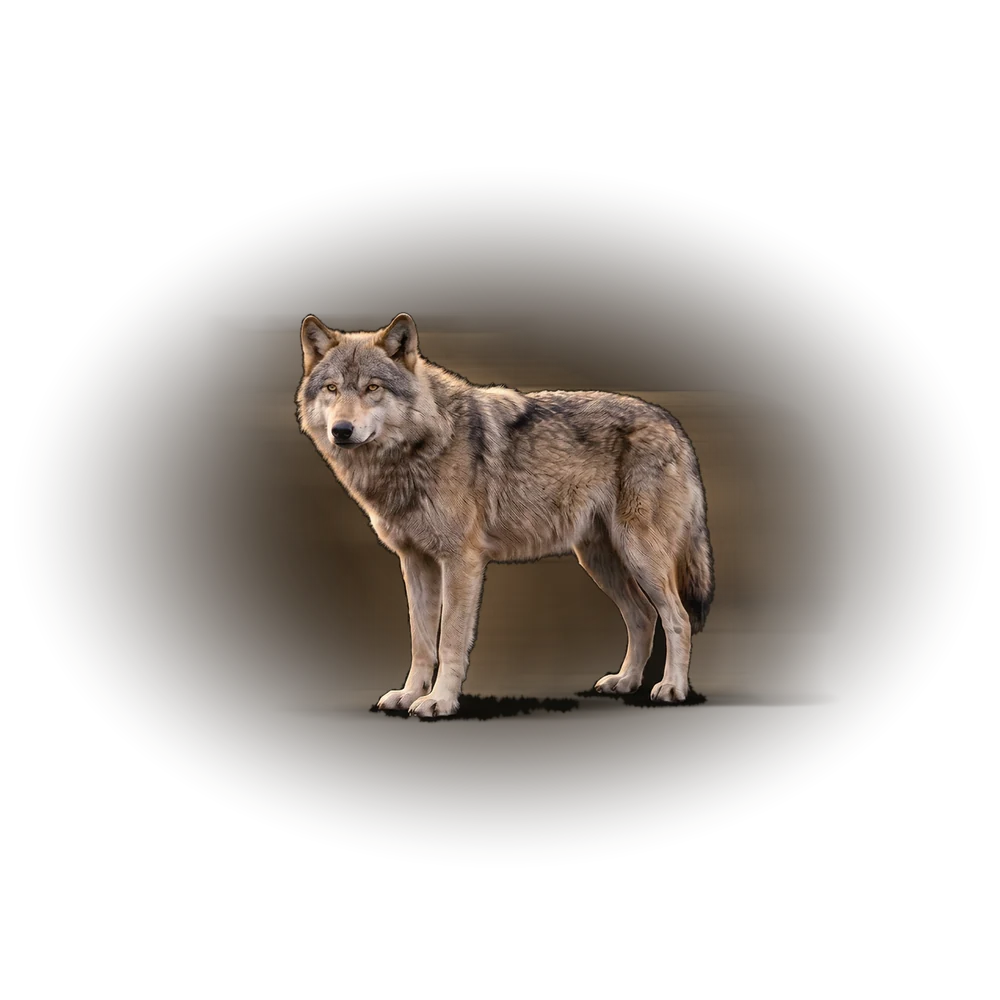
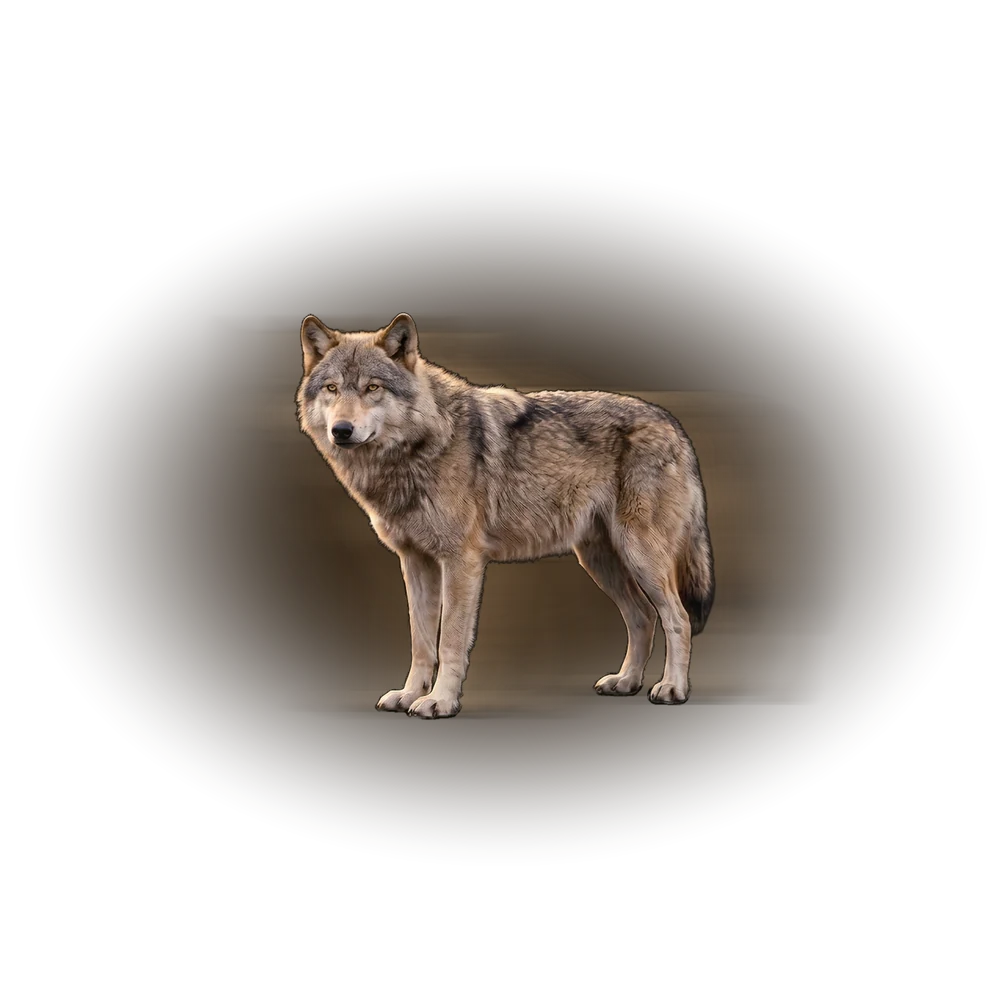
v5.4 matted stills

Changed region(s): [[0.372, 0.62, 0.775, 0.744]]

diff --git a/preview.html b/preview.html
@@ -27,7 +27,7 @@
 <div class="pv">
   <h1>Wolf, 1 to 10</h1>
   <div class="stagebox">
-    <div class="hero"><div class="stage-art" id="wolfArt"><video class="a" id="wolfImg" muted autoplay loop playsinline disablepictureinpicture poster="img/wolf/01.webp?v=43" ></video><span class="flick"></span><span class="flick b"></span></div></div>
+    <div class="hero"><div class="stage-art" id="wolfArt"><video class="a" id="wolfImg" muted autoplay loop playsinline disablepictureinpicture poster="img/wolf/01.webp?v=44" ></video><span class="flick"></span><span class="flick b"></span></div></div>
     <div class="ctl"><button id="wPrev">‹</button><input type="range" id="wRange" min="1" max="10" value="1"><span class="n" id="wN">1</span><button id="wNext">›</button></div>
     <button class="btn play" id="wPlay">Play</button>
   </div>
@@ -79,10 +79,10 @@ for (const k in O){
   s.insertAdjacentHTML('beforeend',`<div class="ico"><span class="ic"><svg viewBox="0 0 20 20" fill="currentColor">${S[k]}</svg></span><span>${names[k]}</span></div>`);
 }
 function wire(kind,img,range,n,prev,next,play){
-  const set=v=>{v=Math.min(10,Math.max(1,v));range.value=v;n.textContent=v;if(img.tagName==='VIDEO'){img.poster=`img/${kind}/${String(v).padStart(2,'0')}.webp`;img.src=`img/${kind}/${String(v).padStart(2,'0')}.${EXT}?v=5`;img.play().catch(()=>{});}else{img.src=`img/${kind}/${String(v).padStart(2,'0')}.webp?v=43`;}};
+  const set=v=>{v=Math.min(10,Math.max(1,v));range.value=v;n.textContent=v;if(img.tagName==='VIDEO'){img.poster=`img/${kind}/${String(v).padStart(2,'0')}.webp`;img.src=`img/${kind}/${String(v).padStart(2,'0')}.${EXT}?v=5`;img.play().catch(()=>{});}else{img.src=`img/${kind}/${String(v).padStart(2,'0')}.webp?v=44`;}};
   range.oninput=()=>set(+range.value); prev.onclick=()=>set(+range.value-1); next.onclick=()=>set(+range.value+1);
   let t=null; play.onclick=()=>{ if(t){clearInterval(t);t=null;play.textContent='Play';return;} let v=1,dir=1; set(1); play.textContent='Stop'; t=setInterval(()=>{v+=dir; if(v>=10||v<=1) dir=-dir; set(v);},kind==='wolf'?2500:450); };
-  for (let i=1;i<=10;i++){ new Image().src=`img/${kind}/${String(i).padStart(2,'0')}.webp?v=43`; }
+  for (let i=1;i<=10;i++){ new Image().src=`img/${kind}/${String(i).padStart(2,'0')}.webp?v=44`; }
 }
 const EXT=/Apple/.test(navigator.vendor)?'mp4':'webm';
 wire('wolf',document.getElementById('wolfImg'),wRange,wN,wPrev,wNext,wPlay); (function(){const v=document.getElementById('wolfImg');v.src=`img/wolf/01.${EXT}?v=5`;const kick=()=>{v.muted=true;v.play().catch(()=>{});};kick();document.addEventListener('visibilitychange',kick);document.addEventListener('pointerdown',kick);})(); wire('brain',brainImg,bRange,bN,bPrev,bNext,bPlay);

diff --git a/app.js b/app.js
@@ -3,7 +3,7 @@
   "use strict";
   const P = window.PLAN;
   const $ = (s) => document.querySelector(s);
-  const VERSION = "5.3";
+  const VERSION = "5.4";
   try { const qs = new URLSearchParams(location.search); if (/^\d{4}-\d{2}-\d{2}$/.test(qs.get("start") || "")) P.start = qs.get("start"); } catch {}
 
   /* ---------- dates ---------- */

diff --git a/tools/process_video2.py b/tools/process_video2.py
@@ -22,24 +22,17 @@ def plate_colour(img):
     edge = np.concatenate([a[:40].reshape(-1, 3), a[-40:].reshape(-1, 3), a[:, :40].reshape(-1, 3), a[:, -40:].reshape(-1, 3)])
     return np.median(edge, axis=0)
 
-def key(img, bg=None):
-    """Plate is flat (noise under 5 levels), so key tight, then fill holes so dark fur inside the silhouette stays."""
+def key(img, bg, mt=None):
+    """Alpha = BiRefNet matte (solid silhouette, stable frame to frame) plus the tight chroma key for loose fur
+    strands, but only within a few pixels of the matte so the plate never leaks."""
     from scipy import ndimage
     a = np.asarray(img.convert("RGB").filter(ImageFilter.GaussianBlur(0.6)), np.float32)
-    if bg is None:
-        edge = np.concatenate([a[:50].reshape(-1, 3), a[-50:].reshape(-1, 3), a[:, :50].reshape(-1, 3), a[:, -50:].reshape(-1, 3)])
-        bg = np.median(edge, axis=0)
     d = np.sqrt(((a - bg) ** 2).sum(-1))
-    alpha = np.clip((d - 7) / 10, 0, 1)
-    hard = alpha > 0.5
-    hard = ndimage.binary_closing(hard, iterations=4)
-    hard = ndimage.binary_fill_holes(hard)
-    lab, k = ndimage.label(hard)
-    if k > 1:   # keep the big blobs only (the wolf), drop plate specks
-        sizes = ndimage.sum(hard, lab, range(1, k + 1)); keep = np.isin(lab, [i + 1 for i, s in enumerate(sizes) if s > 0.002 * hard.size])
-        hard = keep
-    alpha = np.maximum(alpha, hard.astype(np.float32)) * ndimage.binary_dilation(hard, iterations=3)
-    alpha = np.asarray(Image.fromarray((alpha * 255).astype(np.uint8)).filter(ImageFilter.GaussianBlur(0.8)), np.float32) / 255
+    chroma = np.clip((d - 7) / 10, 0, 1)
+    m = np.asarray(mt.convert("L"), np.float32) / 255 if mt is not None else chroma
+    near = ndimage.binary_dilation(m > 0.5, iterations=4)
+    alpha = np.maximum(m, chroma * near)
+    alpha = np.asarray(Image.fromarray((alpha * 255).astype(np.uint8)).filter(ImageFilter.GaussianBlur(0.6)), np.float32) / 255
     return np.asarray(img.convert("RGB"), np.float32) / 255, alpha[..., None]
 
 def pool(cy):
@@ -59,17 +52,20 @@ def premultiply(path):
 def run(n, src):
     z = ZOOM[n]; side = int(1220 * z * S / 1520)
     ox = (S - side) // 2; oy = max(0, min(S - side, (S - side) // 2 + int((1 - z) * 60 * S / 1520)))
-    tmp = os.path.expanduser(f"~/Documents/wolf/img/raw/wolfvid2/{n:02d}"); shutil.rmtree(tmp, ignore_errors=True); os.makedirs(tmp)
-    subprocess.run(["ffmpeg", "-y", "-loglevel", "error", "-i", src, "-vf", f"fps={FPS},scale={side}:{side}:flags=lanczos", f"{tmp}/in_%04d.png"], check=True)
+    tmp = os.path.expanduser(f"~/Documents/wolf/img/raw/wolfvid2/{n:02d}"); os.makedirs(tmp, exist_ok=True)
+    if not any(f.startswith("in_") for f in os.listdir(tmp)):   # keep extracted frames (and their mattes) between runs
+        subprocess.run(["ffmpeg", "-y", "-loglevel", "error", "-i", src, "-vf", f"fps={FPS},scale={side}:{side}:flags=lanczos", f"{tmp}/in_%04d.png"], check=True)
     frames = sorted(f for f in os.listdir(tmp) if f.startswith("in_"))
     first = Image.open(f"{tmp}/{frames[0]}"); bg = plate_colour(first)
-    _, a0 = key(first, bg); rows = np.where(a0[..., 0].max(1) > 0.5)[0]
+    def mt_for(f):
+        p = f"{tmp}/mt_{f[3:]}"; return Image.open(p) if os.path.exists(p) else None
+    _, a0 = key(first, bg, mt_for(frames[0])); rows = np.where(a0[..., 0].max(1) > 0.5)[0]
     cy = oy + (rows.min() + rows.max()) / 2 if len(rows) else S / 2
     pcol, pacc = pool(cy)
     grey_w = np.array([0.3, 0.59, 0.11], np.float32); warm = np.array([1.0, 0.86, 0.66], np.float32)
     ks = ((int(side * 0.16) | 1, min(int(side * 0.09), ox), 0.42), (int(side * 0.07) | 1, min(int(side * 0.04), ox), 0.30))
     for i, f in enumerate(frames):
-        rgb, alpha = key(Image.open(f"{tmp}/{f}"), bg)
+        rgb, alpha = key(Image.open(f"{tmp}/{f}"), bg, mt_for(f))
         col = pcol.copy(); acc = pacc.copy()
         def over(lrgb, la, dx, gain):
             ys, xs = slice(oy, oy + side), slice(ox + dx, ox + dx + side)

diff --git a/tools/process_art11.py b/tools/process_art11.py
@@ -15,24 +15,17 @@ def hblur(a, k):
     c = np.cumsum(p, axis=1); c = np.concatenate([np.zeros_like(c[:, :1]), c], axis=1)
     return (c[:, k:] - c[:, :-k]) / k
 
-def key(img, bg=None):
-    """Plate is flat (noise under 5 levels), so key tight, then fill holes so dark fur inside the silhouette stays."""
+def key(img, mt=None):
     from scipy import ndimage
     a = np.asarray(img.convert("RGB").filter(ImageFilter.GaussianBlur(0.6)), np.float32)
-    if bg is None:
-        edge = np.concatenate([a[:50].reshape(-1, 3), a[-50:].reshape(-1, 3), a[:, :50].reshape(-1, 3), a[:, -50:].reshape(-1, 3)])
-        bg = np.median(edge, axis=0)
+    edge = np.concatenate([a[:50].reshape(-1, 3), a[-50:].reshape(-1, 3), a[:, :50].reshape(-1, 3), a[:, -50:].reshape(-1, 3)])
+    bg = np.median(edge, axis=0)
     d = np.sqrt(((a - bg) ** 2).sum(-1))
-    alpha = np.clip((d - 7) / 10, 0, 1)
-    hard = alpha > 0.5
-    hard = ndimage.binary_closing(hard, iterations=4)
-    hard = ndimage.binary_fill_holes(hard)
-    lab, k = ndimage.label(hard)
-    if k > 1:   # keep the big blobs only (the wolf), drop plate specks
-        sizes = ndimage.sum(hard, lab, range(1, k + 1)); keep = np.isin(lab, [i + 1 for i, s in enumerate(sizes) if s > 0.002 * hard.size])
-        hard = keep
-    alpha = np.maximum(alpha, hard.astype(np.float32)) * ndimage.binary_dilation(hard, iterations=3)
-    alpha = np.asarray(Image.fromarray((alpha * 255).astype(np.uint8)).filter(ImageFilter.GaussianBlur(0.8)), np.float32) / 255
+    chroma = np.clip((d - 7) / 10, 0, 1)
+    m = np.asarray(mt.convert("L").resize(img.size, Image.LANCZOS), np.float32) / 255 if mt is not None else chroma
+    near = ndimage.binary_dilation(m > 0.5, iterations=4)
+    alpha = np.maximum(m, chroma * near)
+    alpha = np.asarray(Image.fromarray((alpha * 255).astype(np.uint8)).filter(ImageFilter.GaussianBlur(0.6)), np.float32) / 255
     return np.asarray(img.convert("RGB"), np.float32) / 255, alpha[..., None]
 
 def pool(cy):
@@ -48,7 +41,8 @@ def stage(n, src, dst):
     img = Image.open(src).convert("RGB")
     z = ZOOM[n]; side = int(1220 * z)
     img = img.resize((side, side), Image.LANCZOS)
-    rgb, alpha = key(img)
+    mp = src[:-4] + ".matte.png"
+    rgb, alpha = key(img, Image.open(mp) if os.path.exists(mp) else None)
     ox = (S - side) // 2; oy = max(0, min(S - side, (S - side) // 2 + int((1 - z) * 60)))
     ys_w = np.where(alpha[..., 0].max(1) > 0.5)[0]; cy = oy + (ys_w.min() + ys_w.max()) / 2 if len(ys_w) else S / 2
     col, acc = pool(cy); col = col.copy(); acc = acc.copy()

diff --git a/tools/matte.py b/tools/matte.py
@@ -1,0 +1,35 @@
+#!/usr/bin/env python3
+"""BiRefNet mattes for the wolf frames (run with the AIOS venv python, which has rembg).
+Stills:  matte.py stills            -> img/raw/wolf9/NN.matte.png
+Clip:    matte.py clip N [step]     -> img/raw/wolfvid2/NN/mt_XXXX.png for every in_XXXX.png
+Every `step`-th frame goes through the model; the frames between get a linear blend of the neighbours
+(motion is subtle, so the edge moves under a pixel or two between samples)."""
+import os, sys, numpy as np
+from PIL import Image
+from rembg import new_session, remove
+ROOT = os.path.expanduser("~/Documents/wolf/img")
+S = new_session("birefnet-general", providers=["CPUExecutionProvider"])
+
+def matte(path):
+    return remove(Image.open(path).convert("RGB"), session=S, only_mask=True)
+
+if sys.argv[1] == "stills":
+    for n in range(1, 11):
+        p = f"{ROOT}/raw/wolf9/{n:02d}.png"
+        if os.path.exists(p): matte(p).save(f"{ROOT}/raw/wolf9/{n:02d}.matte.png"); print("still", n, flush=True)
+else:
+    n = int(sys.argv[2]); step = int(sys.argv[3]) if len(sys.argv) > 3 else 2
+    d = f"{ROOT}/raw/wolfvid2/{n:02d}"
+    fs = sorted(f for f in os.listdir(d) if f.startswith("in_"))
+    idx = list(range(0, len(fs), step))
+    if idx[-1] != len(fs) - 1: idx.append(len(fs) - 1)
+    got = {}
+    for i in idx:
+        got[i] = np.asarray(matte(f"{d}/{fs[i]}"), np.float32); print("clip", n, "frame", i + 1, "/", len(fs), flush=True)
+    for i in range(len(fs)):
+        if i in got: m = got[i]
+        else:
+            lo = max(j for j in idx if j < i); hi = min(j for j in idx if j > i); t = (i - lo) / (hi - lo)
+            m = got[lo] * (1 - t) + got[hi] * t
+        Image.fromarray(m.astype(np.uint8)).save(f"{d}/mt_{i + 1:04d}.png")
+    print("done clip", n, flush=True)
